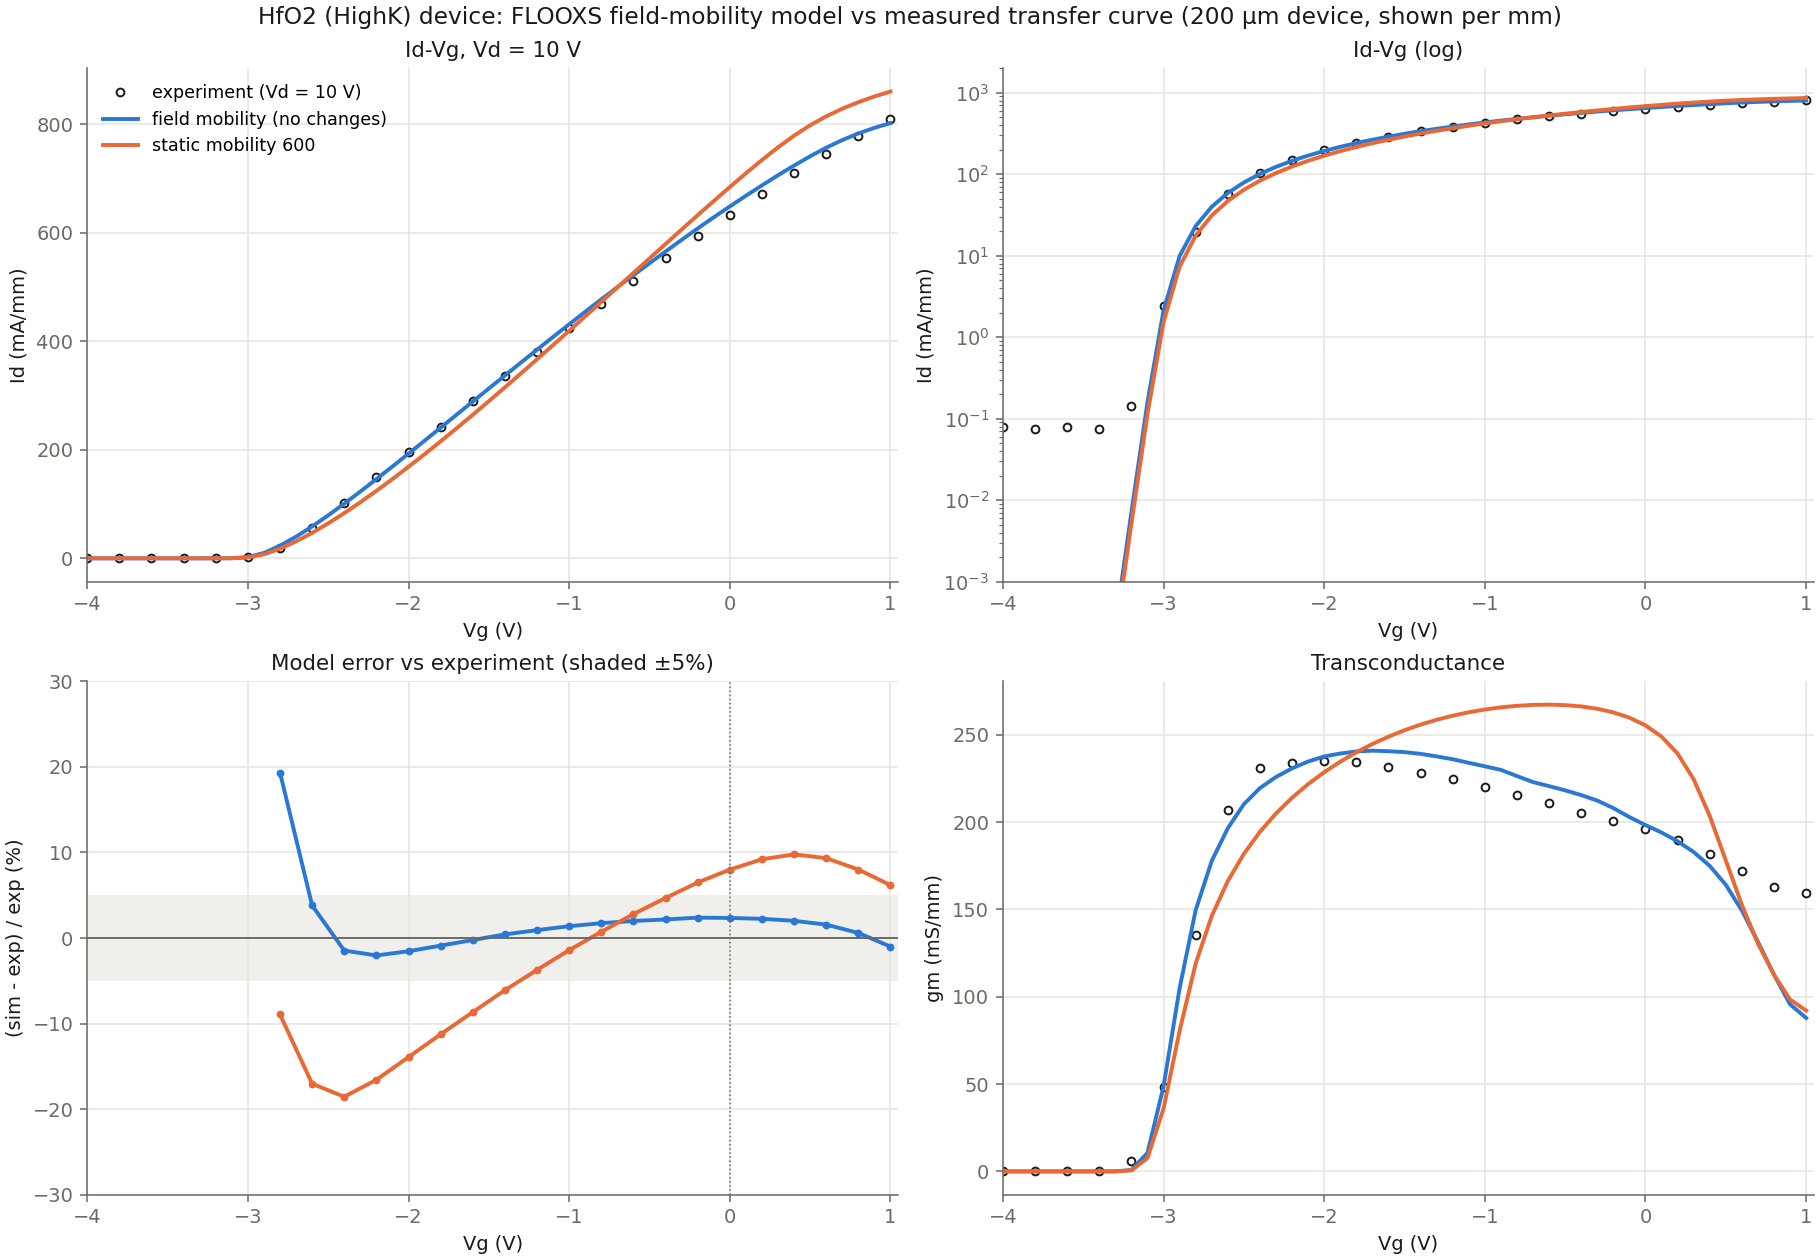
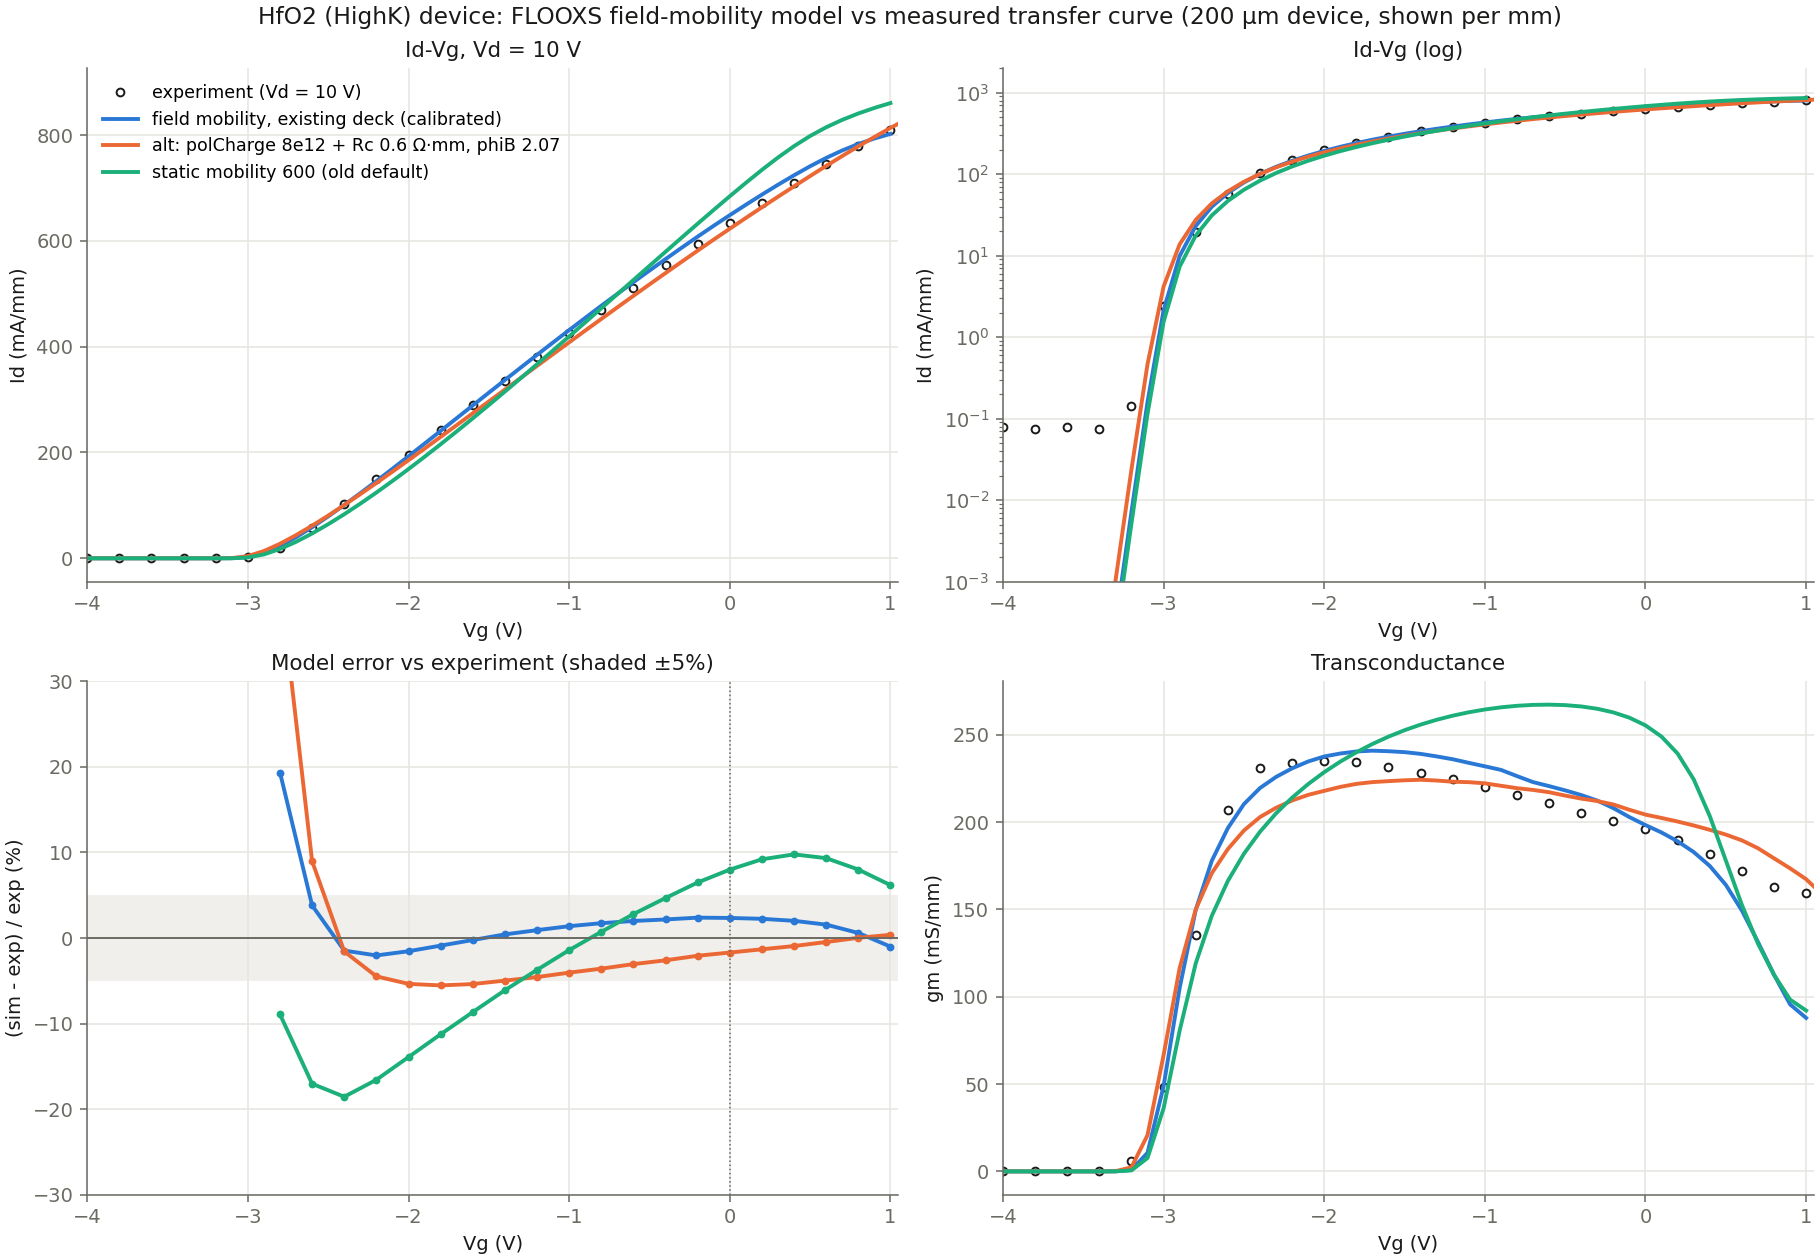
Calibration complete: unmodified field-mobility deck within 2.4% (Vg -2.6..+1 V, Vds 10 V); CLAUDE.md 10m
Claude-Session: https://claude.ai/code/session_01T8r4Sbc8W7NUQPpahQmti5

diff --git a/CLAUDE.md b/CLAUDE.md
@@ -590,6 +590,28 @@ Ian's question: what does the HighK dielectric do to the collapse? `rfdevice_SiN
 - Robustness: "dielectric doesn't matter at ≤3 V" is robust (insensitive to εr over 6.3-35; set by basic electrostatics). The high-Vd numbers are qualitative only (static mobility, no self-heating, corner mesh, Neumann top boundary), and the model has no dielectric fixed/interface charge or dynamic surface trapping, the usual way passivation affects real collapse.
 - Old `fieldpeak.tcl` set HighK εr 6.3 before sourcing the model file, which resets it to 35, so its "SiN" run was HighK.
 
+
+### 10m. Transfer-curve calibration vs the HfO2 device (field mobility)
+
+Target: `figures/rfDeviceHFO2_Experimental.csv` = raw `figures/RF_100nmHfOx_IdVgs_Example1.xlsx`: Id-Vgs at **Vds = 10 V**, 25 °C, 100 nm HfO2, standard FP. `Ids` is in **A for a 200 µm device** → mA/mm = A·1e3/0.2 (634 mA/mm at Vg=0, 810 at +1 V). FLOOXS flux is per µm of depth (×1e6 = mA/mm). Gate leakage ≤2e-3 mA/mm; the off-state floor (~0.075 mA/mm) is drain leakage and is not modelled (Ian: qualitative OFF vs ON only). Driver `calibIdVg.tcl` (trap-free, `mobModel field`, Vd ramp then Vg +1 → −4; levers `Vd_cal`, `Rs_contact`/`Rd_contact` lumped contact resistance, `deviceDeck`), scoring `calib_score.py` (aligns by a rigid Vg shift = ΔphiB), plot `plot_calib.py` → `figures/calib_IdVg.png`.
+
+**Result: the existing deck with `mobModel field` is the calibration; no parameters changed.** Id within ±2.4% from Vg −2.6 to +1 V (rms 1.9% to 0 V, 1.8% to +1 V); −2.0 V: −1.5%; 0 V: 649 vs 634; +1 V: 802 vs 810. Threshold region: +16% at −2.8 V, −15% at −3.0 V (model turns on slightly more steeply). Static mobility (600) is 10% rms with the wrong shape. Curves: `figures/calib_IdVg_{field,static,alt_pol8e12_Rc0.6}.csv`.
+
+Known miss: **gm above +0.5 V collapses** (88 vs 160 mS/mm at +1 V), while Id there still matches. Diagnosed at Vd=10 V: no spill-over into the AlGaN; the source access region (2DEG ~5e12 cm⁻², drops 1.5 V at +1 V) and the strip under the T-gate head overhang (1.5-3.7e12, the head couples through the HighK as a weak second gate) quasi-saturate (access-resistance gm roll-off, Palacios et al. TED 2006). Tried, all physically motivated, all trade the turn-on/−2 V region for forward-bias gm:
+
+| change (phiB refit for Vth) | rms to 0 V | at −2 V | gm −1/0/+1 (exp 220/196/159) |
+|---|---|---|---|
+| none (adopted) | 1.8% | −2% | 232/199/88 |
+| polCharge 9e12 / 1.1e13 | 13% / 22% | | 286/262/222, 326/312/281 |
+| polCharge 8e12 + Rc 0.6 Ω·mm, phiB 2.07 | 4.5% | −5% | 223/205/170 |
+| polCharge 7.5e12 + Rc 0.35, phiB 1.86 | 3.1% | −4% | 225/203/135 |
+| polCharge 9e12 + Rc 1.0, phiB 2.50 | 6.8% | −6% | 216/207/188 |
+| surfCharge 4e12 (Rc 0) | 22% | | 325/313/293 |
+| surfCharge 1.5e12 + Rc 0.6, phiB 1.86 | 3.2% | −4% | 231/219/189 |
+| 2DEG mobility excluding buffer doping (~1900) | 36% | | |
+
+More channel charge removes the access bottleneck but raises intrinsic gm, and the series resistance needed to trim it softens the turn-on. Kept the unmodified deck because it is best in the required range and at Vg = −2 V, where all trap studies run. A run at the fitted phiB confirmed the rigid-shift approximation (field plate effect < 0.1%). New levers (defaults = old behaviour): `polCharge`, `phiB`, `surfCharge`.
+
 ---
 
 ## 11. Notebook and plotting

diff --git a/progress.md b/progress.md
@@ -891,3 +891,8 @@ Target: `figures/rfDeviceHFO2_Experimental.csv` = raw `figures/RF_100nmHfOx_IdVg
 - **Unmodified field mobility already fits:** within ±2.4% from Vg −2.6 to +1 V (rms 1.9% to 0 V, 1.8% to +1 V); 0 V: 649 vs 634, +1 V: 802 vs 810. Static mobility 600: rms 10% (wrong shape). `figures/calib_IdVg.png`.
 - Remaining: gm is ~4% high mid-range and **collapses above +0.5 V** (88 vs 160 mS/mm at +1 V), the same with static mobility, so it's electrostatic, not mobility. Diagnosing (charge under the gate, GaN vs AlGaN). Off-state drain leakage (~0.075 mA/mm) ignored per Ian.
 - Ian: after calibration, redo the trap studies with field mobility.
+
+## 2026-10-01 - calibration done
+
+**Calibrated model = existing deck with `mobModel field`, no parameter changes**: Id within ±2.4% of the measurement from Vg −2.6 to +1 V at Vds = 10 V (rms 1.9% to 0 V); mA/mm = A·1e3/0.2. Only miss: gm above +0.5 V (88 vs 160 mS/mm at +1 V; Id still matches). Tried interface charge, contact resistance, surface charge and 2DEG mobility (CLAUDE.md 10m table). All fix forward-bias gm only by softening the turn-on and dropping the −2 V region 4-6%, so none adopted. `figures/calib_IdVg.png`.
+**Next (Ian):** redo the trap studies with field mobility. Which ones (10f maps, 10j/10k, 10l?), and should field mobility become the default (`mobModel`)? Waiting before any sbatch.
